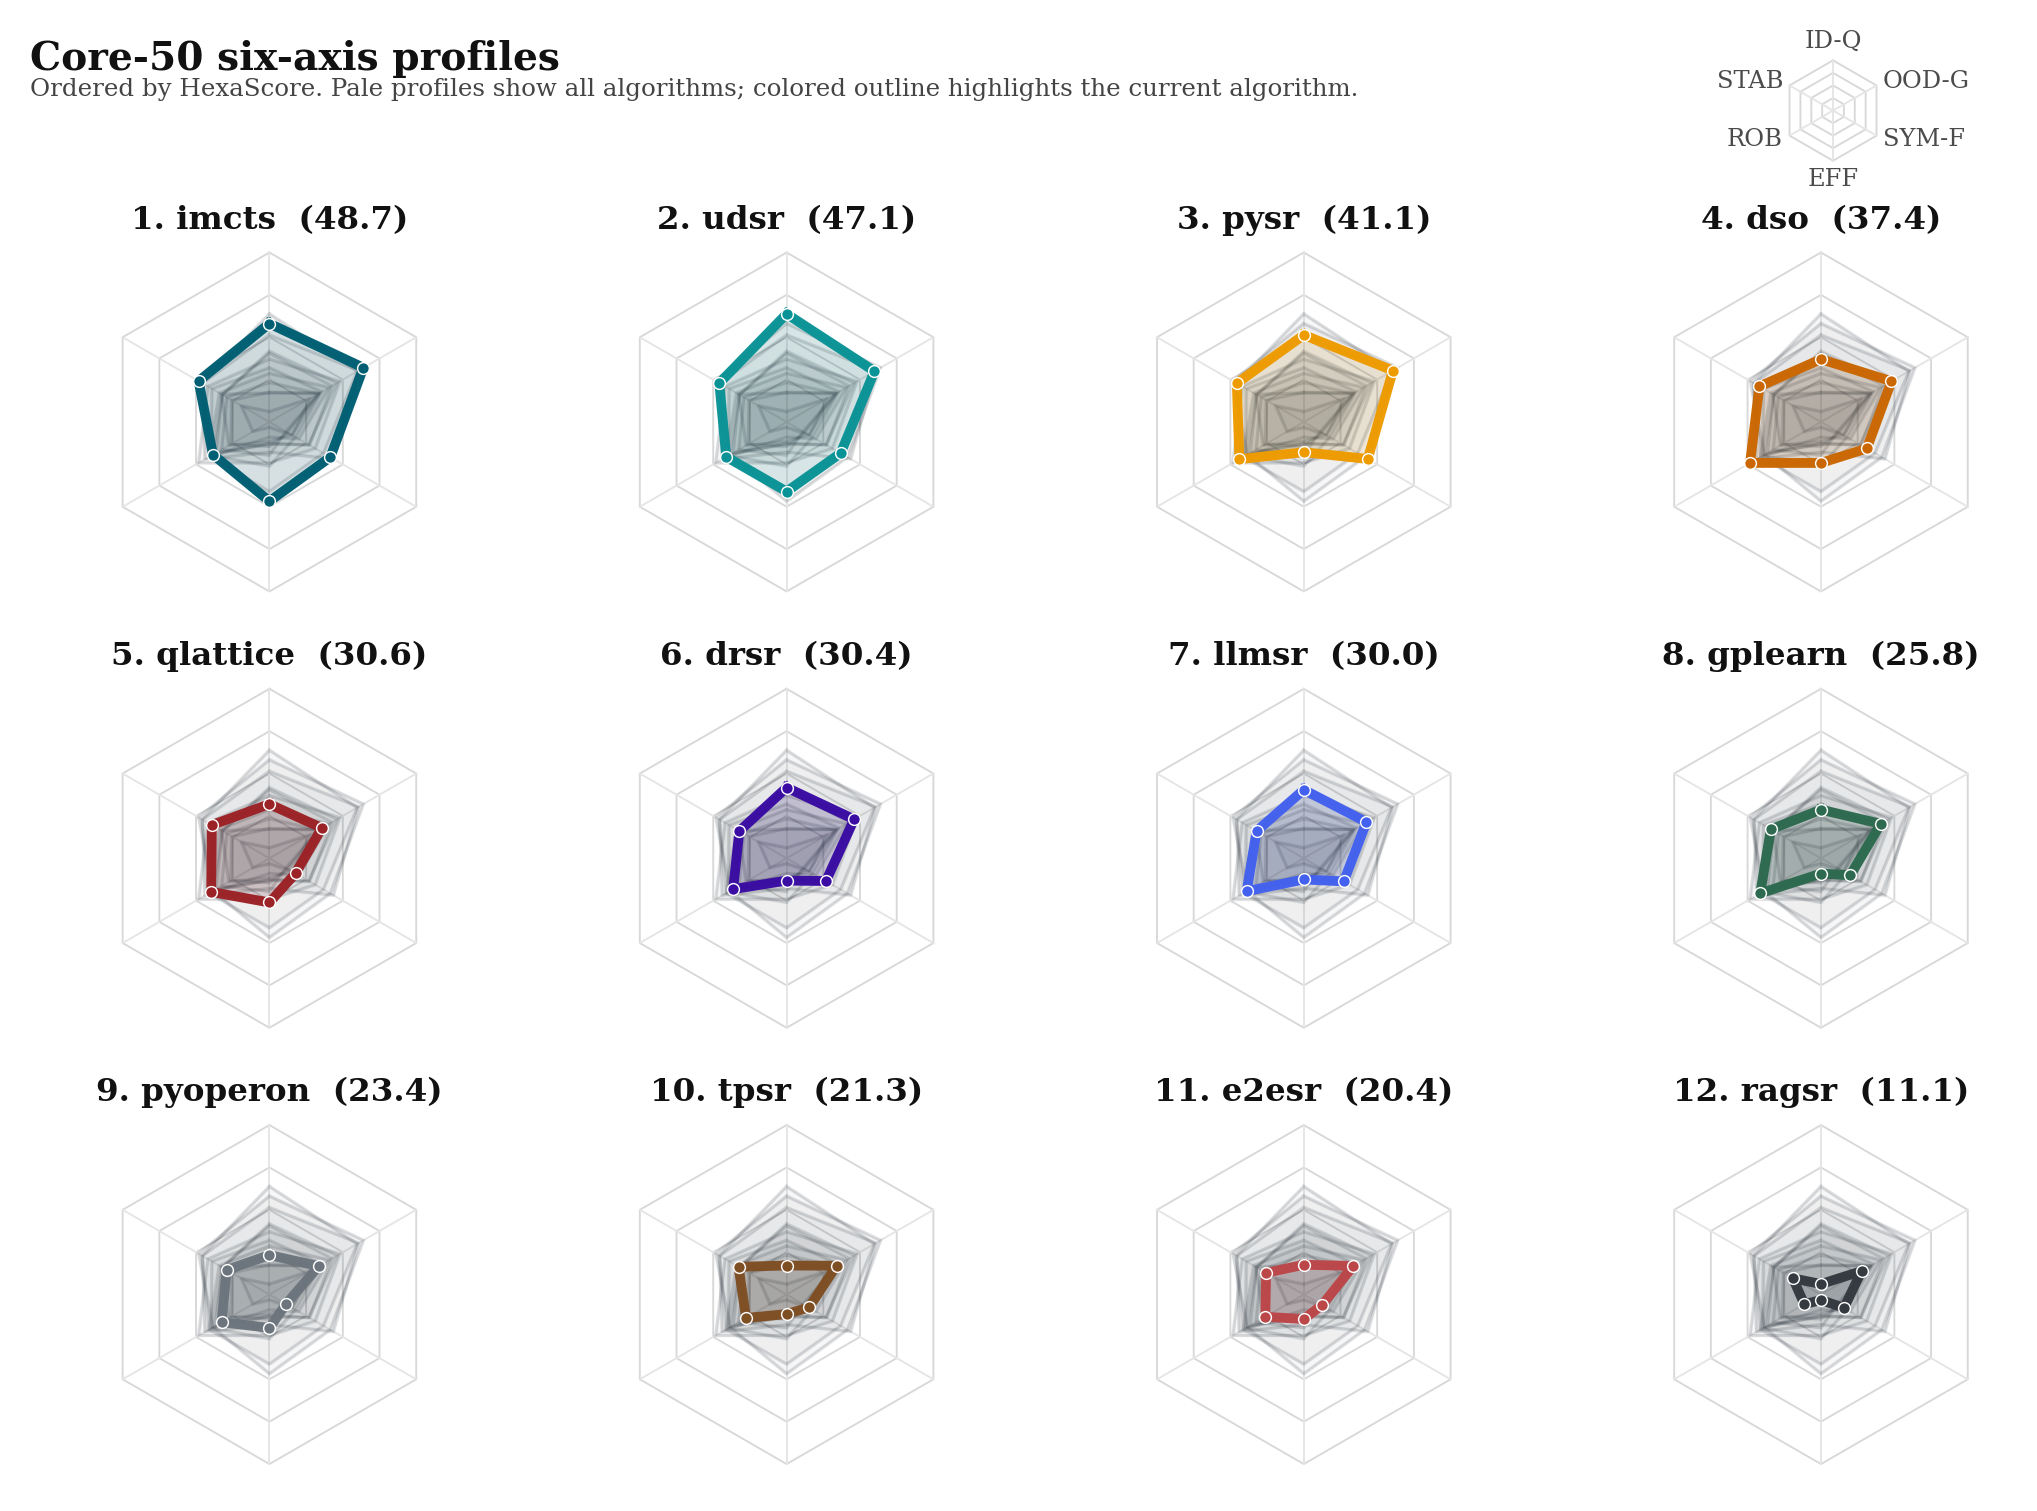
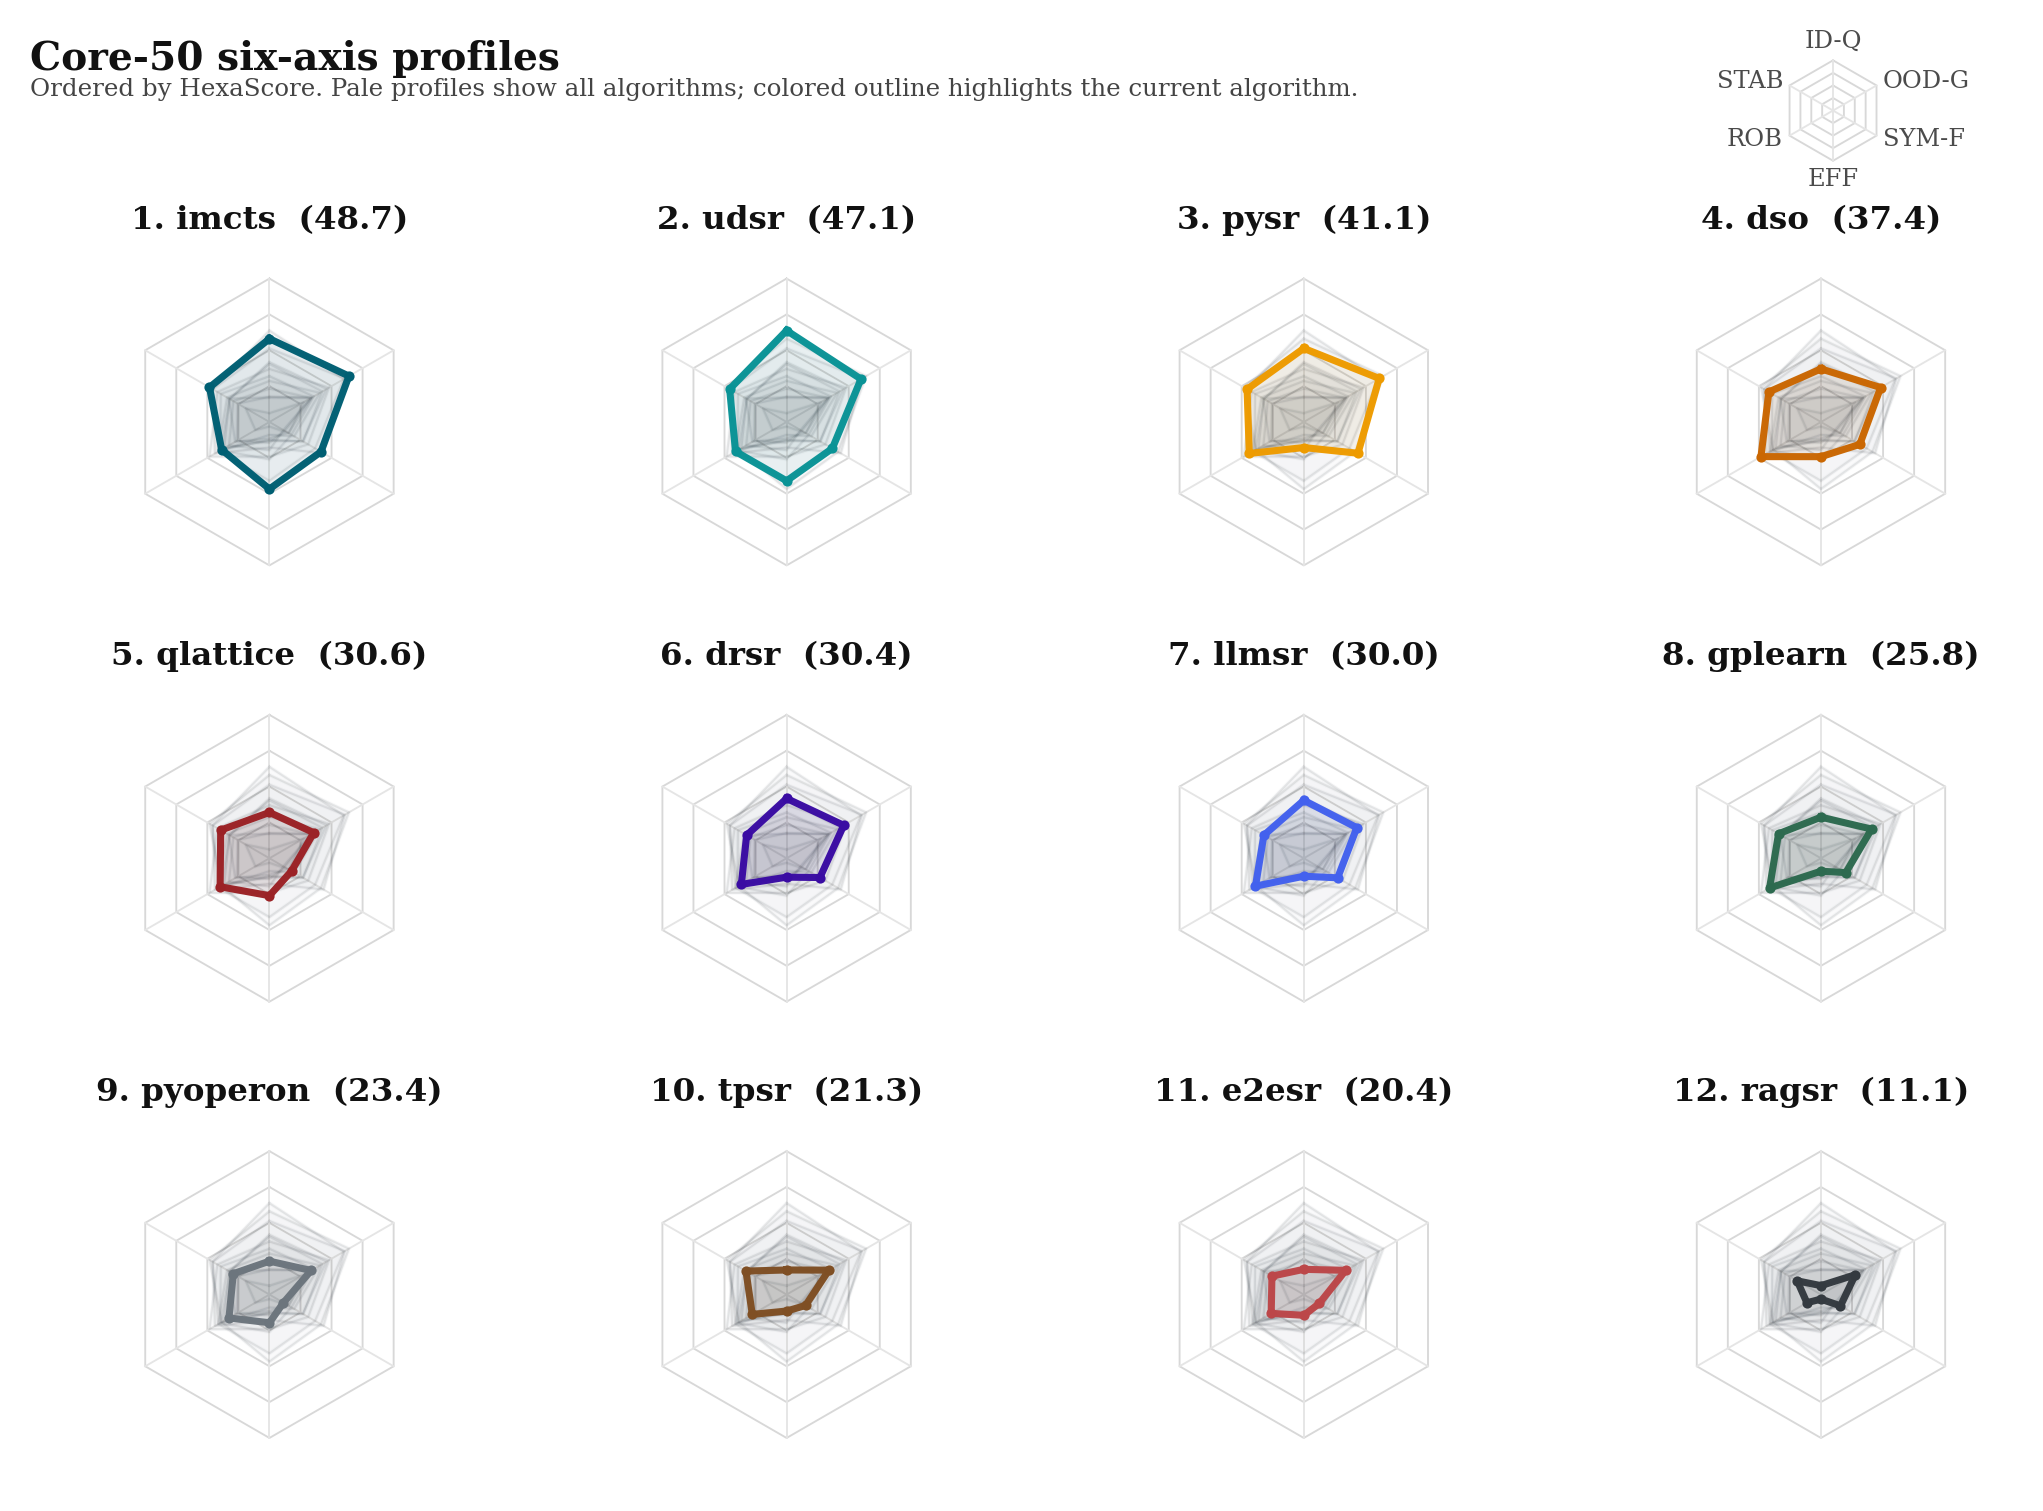
[update] 调整六轴小多图视觉权重

diff --git a/check/plot_hexagon_small_multiples_neurips.py b/check/plot_hexagon_small_multiples_neurips.py
@@ -134,22 +134,22 @@ def main() -> None:
     for rank, ax in enumerate(axes_flat):
         draw_grid(ax, angles, show_axis_labels=False)
         ax.set_aspect("equal")
-        ax.set_xlim(-1.10, 1.10)
-        ax.set_ylim(-1.10, 1.10)
+        ax.set_xlim(-1.34, 1.34)
+        ax.set_ylim(-1.30, 1.30)
         ax.axis("off")
 
-        # 背景：每个 panel 都显示全部算法的六边形，低透明度，便于比较覆盖范围。
+        # 背景只提供整体形状感，不抢当前算法的视觉中心。
         for vals in values:
             x, y = polygon_points(vals, angles)
-            ax.plot(x, y, color="#1f2933", lw=0.70, alpha=0.14, zorder=1)
-            ax.fill(x, y, color="#1f2933", alpha=0.035, zorder=1)
+            ax.plot(x, y, color="#1f2933", lw=0.52, alpha=0.095, zorder=1)
+            ax.fill(x, y, color="#1f2933", alpha=0.020, zorder=1)
 
         # 当前算法：只让边框明显高亮，填充保持克制，避免遮住背景集合。
         x, y = polygon_points(values[rank], angles)
         color = highlight_colors[rank % len(highlight_colors)]
-        ax.plot(x, y, color=color, lw=2.35, alpha=0.98, zorder=4)
-        ax.fill(x, y, color=color, alpha=0.10, zorder=3)
-        ax.scatter(x[:-1], y[:-1], s=8, color=color, edgecolor="white", linewidth=0.35, zorder=5)
+        ax.plot(x, y, color=color, lw=1.70, alpha=0.98, zorder=4)
+        ax.fill(x, y, color=color, alpha=0.055, zorder=3)
+        ax.scatter(x[:-1], y[:-1], s=6, color=color, edgecolor=color, linewidth=0.0, zorder=5)
 
         title = f"{rank + 1}. {algorithms[rank]}  ({scores[rank]:.1f})"
         ax.set_title(title, fontsize=7.8, fontweight="bold", pad=1.2)
@@ -200,8 +200,8 @@ def main() -> None:
             for i in range(len(algorithms))
         ],
         "axes": AXES,
-        "background_alpha": 0.14,
-        "highlight_linewidth": 2.35,
+        "background_alpha": 0.095,
+        "highlight_linewidth": 1.70,
         "axis_labels": "shared_once",
     }
     (ANALYSIS_OUT / "fig_hexagon_small_multiples_neurips_manifest.json").write_text(
